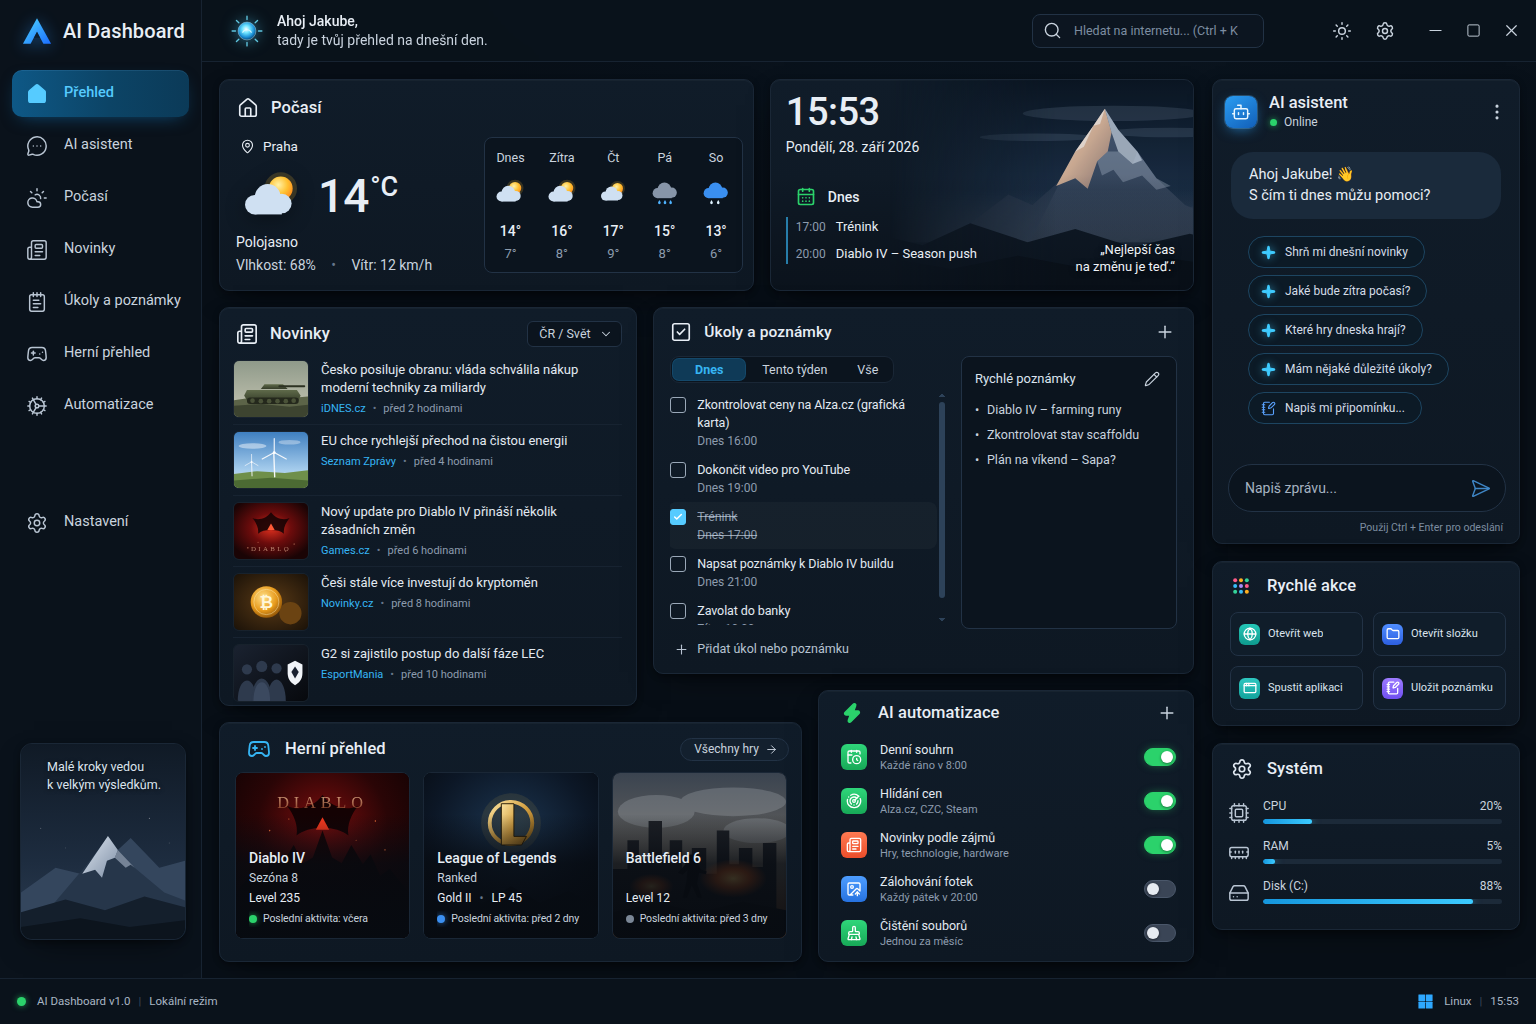
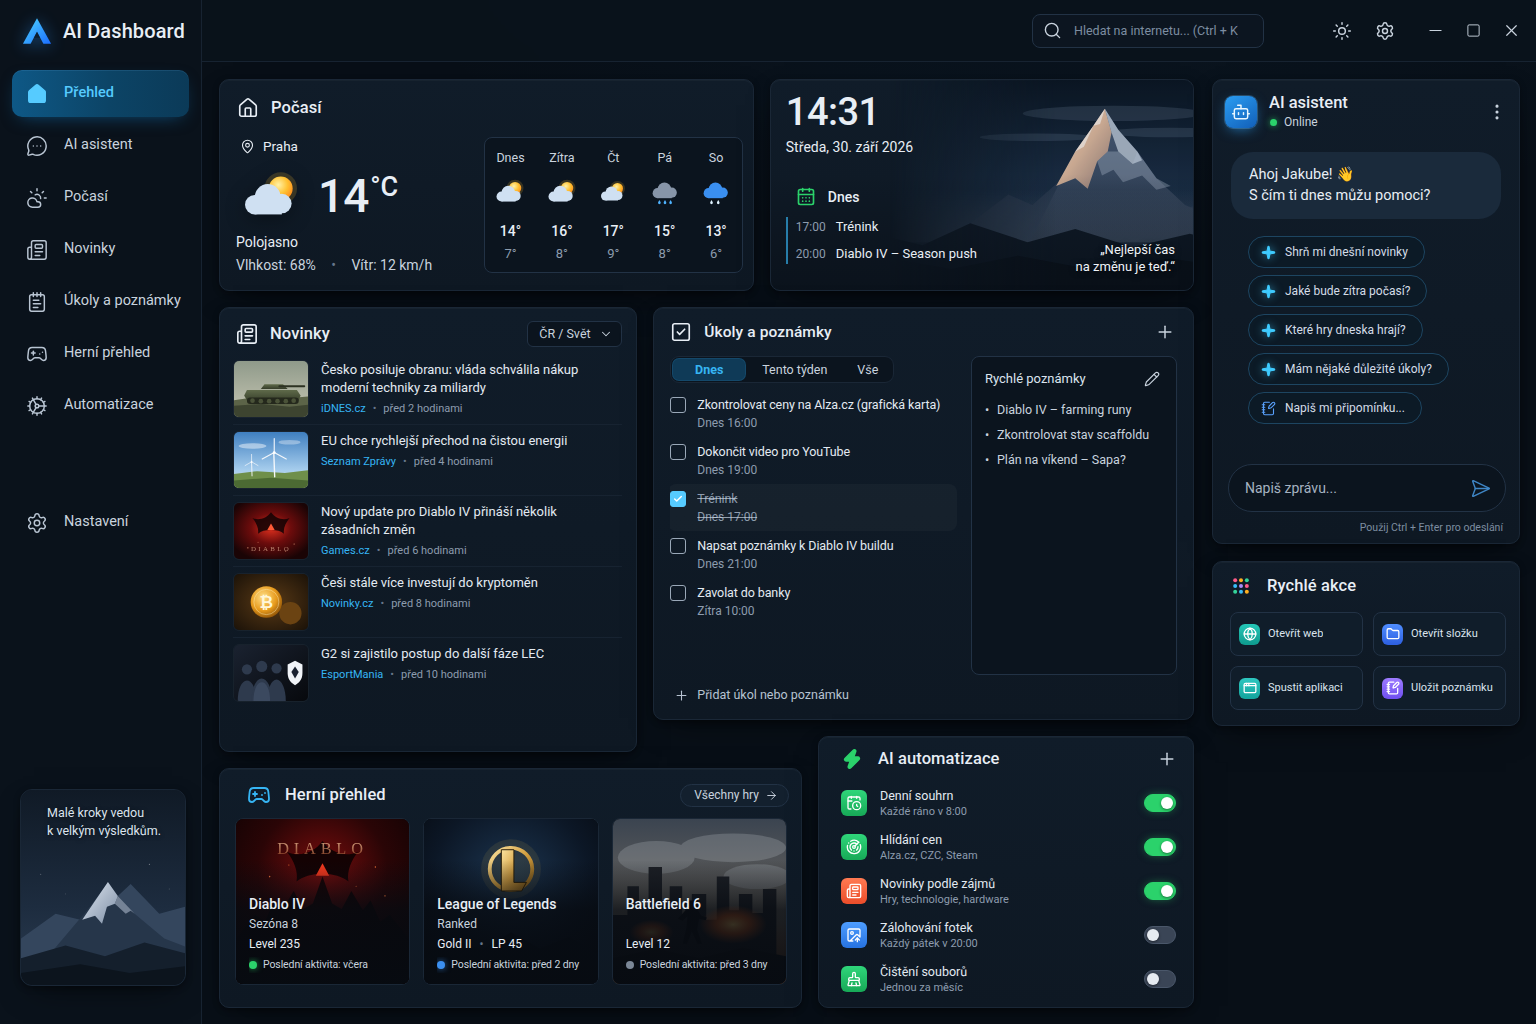
Remove greeting, status bar and system card
- Top bar: drop the "Ahoj Jakube" greeting; search stays right-aligned.
- Remove the bottom status bar (app version, local mode, OS, clock).
- Remove the Systém card and the CPU/RAM/disk IPC it used.
- Narrow the quick-notes panel so the first task title fits on one line.

Claude-Session: https://claude.ai/code/session_01SKftjndGtxnayR8RFE7BFb

diff --git a/styles.css b/styles.css
@@ -55,7 +55,6 @@
   --sidebar-w: 202px;
   --rail-w: 72px;
   --topbar-h: 62px;
-  --statusbar-h: 46px;
   --rightbar-w: 308px;
   --gap: 16px;
 
@@ -134,11 +133,10 @@ i[data-lucide],
 .app {
   display: grid;
   grid-template-columns: var(--sidebar-w) minmax(0, 1fr);
-  grid-template-rows: var(--topbar-h) 1fr var(--statusbar-h);
+  grid-template-rows: var(--topbar-h) 1fr;
   grid-template-areas:
     "side top"
-    "side main"
-    "status status";
+    "side main";
   min-height: 100dvh;
   background:
     radial-gradient(1200px 600px at 70% -10%, rgba(40, 110, 170, 0.08), transparent 60%),
@@ -153,7 +151,7 @@ i[data-lucide],
   z-index: 40;
   display: flex;
   flex-direction: column;
-  height: calc(100dvh - var(--statusbar-h));
+  height: 100dvh;
   padding: 0 12px 38px;
   background: var(--surface);
   border-right: 1px solid var(--line);
@@ -251,23 +249,9 @@ i[data-lucide],
 }
 .topbar .topbar__menu { display: none; }
 
-.greeting { display: flex; align-items: center; gap: 13px; min-width: 0; margin-right: auto; }
-.greeting__orb {
-  width: 34px; height: 34px; flex: none;
-  filter: drop-shadow(0 0 8px rgba(80, 210, 255, 0.55));
-  animation: orb-pulse 4s ease-in-out infinite;
-}
-.greeting__text { display: flex; flex-direction: column; font-size: 14px; line-height: 1.35; min-width: 0; }
-.greeting__text strong { font-weight: 500; }
-.greeting__text span { color: var(--text-2); white-space: nowrap; overflow: hidden; text-overflow: ellipsis; }
-
-@keyframes orb-pulse {
-  0%, 100% { filter: drop-shadow(0 0 6px rgba(80, 210, 255, 0.45)); }
-  50%      { filter: drop-shadow(0 0 12px rgba(80, 210, 255, 0.8)); }
-}
-
 .search {
   position: relative;
+  margin-left: auto;
   display: flex;
   align-items: center;
   width: 232px;
@@ -340,7 +324,7 @@ i[data-lucide],
     "news    .       .     automation"
     "games   games   games automation";
   gap: var(--gap);
-  min-height: min(calc(100dvh - var(--topbar-h) - var(--statusbar-h) - 33px), 960px);
+  min-height: min(calc(100dvh - var(--topbar-h) - 33px), 1000px);
 }
 .weather     { grid-area: weather; }
 .clock       { grid-area: clock; }
@@ -594,7 +578,7 @@ i[data-lucide],
 .tasks__layout {
   flex: 1;
   display: grid;
-  grid-template-columns: minmax(0, 1fr) 216px;
+  grid-template-columns: minmax(0, 1fr) 206px;
   grid-template-rows: auto auto 1fr auto;
   grid-template-areas:
     "head head"
@@ -1144,49 +1128,6 @@ i[data-lucide],
 .action__icon--cyan { background: linear-gradient(180deg, #2ec7c0, #12a39c); }
 .action__icon--violet { background: linear-gradient(180deg, #9d7bff, #6f4ff0); }
 
-/* ---------- Systém ---------- */
-.system { padding: 15px 17px 25px 18px; }
-.system .card__title { gap: 14px; }
-.system .card__title .lucide { width: 22px; height: 22px; color: #dfe7f0; }
-.meters { display: flex; flex-direction: column; gap: 14px; margin-top: 19px; }
-.meter { display: flex; align-items: center; gap: 13px; }
-.meter > .lucide { width: 22px; height: 22px; color: #b9c5d3; stroke-width: 1.6; margin: 3px 0 0 -3px; }
-.meter__body { flex: 1; min-width: 0; }
-.meter__row { display: flex; justify-content: space-between; font-size: 12px; line-height: 16px; color: var(--text-2); }
-.meter__bar { height: 5px; margin-top: 5px; overflow: hidden; background: #1c2a39; border-radius: 3px; }
-.meter__bar span {
-  display: block;
-  width: var(--value, 0%);
-  height: 100%;
-  border-radius: inherit;
-  background: linear-gradient(90deg, #1596dd, #3ccaff);
-  box-shadow: 0 0 8px rgba(60, 202, 255, 0.55);
-  transition: width 0.6s var(--ease);
-}
-
-/* ==========================================================================
-   Stavový řádek
-   ========================================================================== */
-.statusbar {
-  grid-area: status;
-  position: sticky;
-  bottom: 0;
-  z-index: 30;
-  display: flex;
-  align-items: center;
-  justify-content: space-between;
-  gap: 16px;
-  padding: 0 17px 0 17px;
-  background: var(--surface);
-  border-top: 1px solid var(--line);
-  font-size: 11.5px;
-  color: #a9b6c4;
-}
-.statusbar p { display: flex; align-items: center; white-space: nowrap; }
-.statusbar .status-dot { width: 9px; height: 9px; margin-right: 11px; }
-.statusbar__sep { margin: 0 8px; color: #3a4757; }
-.statusbar__os { width: 17px; height: 17px; margin-right: 10px; }
-.statusbar__right { font-variant-numeric: tabular-nums; }
 
 /* ==========================================================================
    Desktop aplikace (Electron): okno se táhne za horní lištu
@@ -1245,12 +1186,11 @@ i[data-lucide],
     display: grid;
     grid-template-columns: repeat(2, minmax(0, 1fr));
     grid-template-rows: auto 1fr;
-    grid-template-areas: "chat quick" "chat system";
+    grid-template-areas: "chat quick" "chat .";
     gap: var(--gap);
   }
   .assistant { grid-area: chat; }
   .quick { grid-area: quick; }
-  .system { grid-area: system; }
   .dashboard { min-height: 0; }
 }
 
@@ -1293,7 +1233,7 @@ i[data-lucide],
   .rightbar {
     grid-template-columns: minmax(0, 1fr);
     grid-template-rows: none;
-    grid-template-areas: "chat" "quick" "system";
+    grid-template-areas: "chat" "quick";
   }
   .clock { min-height: 212px; }
   .clock__bg { width: 85%; }
@@ -1304,12 +1244,9 @@ i[data-lucide],
     height: auto;
     padding: 10px 12px 12px;
   }
-  .app { grid-template-rows: auto 1fr auto; }
-  .greeting__text span { display: none; }
+  .app { grid-template-rows: auto 1fr; }
   .search { order: 3; flex: 1 1 100%; }
   .topbar__actions { gap: 2px; }
-
-  .statusbar { padding: 12px 16px; font-size: 11px; }
 }
 
 @media (max-width: 380px) {

diff --git a/index.html b/index.html
@@ -54,14 +54,6 @@
       <path d="M16 16.8 12.6 23.2h6.8Z" fill="#0a121b" opacity=".55"/>
     </symbol>
 
-    <symbol id="i-orb" viewBox="0 0 40 40">
-      <g stroke="#6fe4ff" stroke-linecap="round" stroke-width="1.6" opacity=".85">
-        <path d="M20 2.5v4M20 33.5v4M2.5 20h4M33.5 20h4M7.6 7.6l2.8 2.8M29.6 29.6l2.8 2.8M7.6 32.4l2.8-2.8M29.6 10.4l2.8-2.8"/>
-      </g>
-      <circle cx="20" cy="20" r="10.5" fill="url(#g-orb)"/>
-      <circle cx="20" cy="20" r="10.5" fill="none" stroke="#bff4ff" stroke-opacity=".5"/>
-      <path d="M15 21.5c2-4 8-4 10 0" fill="none" stroke="#e9fcff" stroke-width="1.4" stroke-linecap="round" opacity=".8"/>
-    </symbol>
 
     <symbol id="wx-partly" viewBox="0 0 64 48">
       <circle cx="41" cy="17" r="15" fill="#ffc233" opacity=".18"/>
@@ -113,12 +105,6 @@
       <circle cx="19" cy="19" r="2.4" fill="#ffb020"/>
     </symbol>
 
-    <symbol id="i-windows" viewBox="0 0 24 24">
-      <rect x="2" y="2" width="9.5" height="9.5" rx=".6" fill="#2ea8ff"/>
-      <rect x="12.5" y="2" width="9.5" height="9.5" rx=".6" fill="#2ea8ff"/>
-      <rect x="2" y="12.5" width="9.5" height="9.5" rx=".6" fill="#2ea8ff"/>
-      <rect x="12.5" y="12.5" width="9.5" height="9.5" rx=".6" fill="#2ea8ff"/>
-    </symbol>
   </svg>
 
   <div class="app" id="app">
@@ -159,13 +145,6 @@
         <i data-lucide="menu"></i>
       </button>
 
-      <div class="greeting">
-        <svg class="greeting__orb" aria-hidden="true"><use href="#i-orb"/></svg>
-        <p class="greeting__text">
-          <strong>Ahoj Jakube,</strong>
-          <span>tady je tvůj přehled na dnešní den.</span>
-        </p>
-      </div>
 
       <form class="search" role="search" action="https://duckduckgo.com/" method="get" target="_blank">
         <i data-lucide="search"></i>
@@ -523,41 +502,9 @@
           </div>
         </section>
 
-        <!-- Systém -->
-        <section class="card system" aria-labelledby="system-title">
-          <h2 class="card__title" id="system-title"><i data-lucide="settings"></i>Systém</h2>
-          <ul class="meters">
-            <li class="meter">
-              <i data-lucide="cpu"></i>
-              <div class="meter__body">
-                <div class="meter__row"><span>CPU</span><span data-meter-value="cpu">12%</span></div>
-                <div class="meter__bar" role="progressbar" data-meter="cpu" aria-label="Využití CPU" aria-valuenow="12" aria-valuemin="0" aria-valuemax="100"><span style="--value: 12%"></span></div>
-              </div>
-            </li>
-            <li class="meter">
-              <i data-lucide="memory-stick"></i>
-              <div class="meter__body">
-                <div class="meter__row"><span>RAM</span><span data-meter-value="ram">34%</span></div>
-                <div class="meter__bar" role="progressbar" data-meter="ram" aria-label="Využití RAM" aria-valuenow="34" aria-valuemin="0" aria-valuemax="100"><span style="--value: 34%"></span></div>
-              </div>
-            </li>
-            <li class="meter">
-              <i data-lucide="hard-drive"></i>
-              <div class="meter__body">
-                <div class="meter__row"><span>Disk (C:)</span><span data-meter-value="disk">68%</span></div>
-                <div class="meter__bar" role="progressbar" data-meter="disk" aria-label="Zaplnění disku C:" aria-valuenow="68" aria-valuemin="0" aria-valuemax="100"><span style="--value: 68%"></span></div>
-              </div>
-            </li>
-          </ul>
-        </section>
       </aside>
     </main>
 
-    <!-- ============ STAVOVÝ ŘÁDEK ============ -->
-    <footer class="statusbar">
-      <p class="statusbar__left"><span class="status-dot status-dot--green"></span>AI Dashboard v<span id="app-version">1.0</span><span class="statusbar__sep">|</span>Lokální režim</p>
-      <p class="statusbar__right"><svg class="statusbar__os" aria-hidden="true"><use href="#i-windows"/></svg><span id="os-name">Windows 11</span><span class="statusbar__sep">|</span><time id="status-time">15:42</time></p>
-    </footer>
   </div>
 
 </body>

diff --git a/main.js b/main.js
@@ -3,8 +3,6 @@
 
 const { app, BrowserWindow, ipcMain, shell, dialog, screen } = require("electron");
 const path = require("node:path");
-const os = require("node:os");
-const fs = require("node:fs");
 
 const DESIGN_SIZE = { width: 1536, height: 1024 };
 const isHttpUrl = (url) => /^https?:\/\//i.test(url);
@@ -68,52 +66,6 @@ ipcMain.on("win:toggle-maximize", (e) => {
   win.isMaximized() ? win.unmaximize() : win.maximize();
 });
 ipcMain.on("win:close", (e) => senderWindow(e)?.close());
-
-/* ---------- Systémové informace ---------- */
-let lastCpu = os.cpus().map((c) => c.times);
-
-function cpuUsage() {
-  const now = os.cpus().map((c) => c.times);
-  let idle = 0;
-  let total = 0;
-  now.forEach((t, i) => {
-    const prev = lastCpu[i] || t;
-    const busy = (t.user - prev.user) + (t.nice - prev.nice) + (t.sys - prev.sys) + (t.irq - prev.irq);
-    const free = t.idle - prev.idle;
-    idle += free;
-    total += busy + free;
-  });
-  lastCpu = now;
-  return total > 0 ? Math.round((1 - idle / total) * 100) : 0;
-}
-
-function diskUsage() {
-  const root = process.platform === "win32" ? "C:\\" : "/";
-  try {
-    const s = fs.statfsSync(root);
-    return Math.round((1 - s.bavail / s.blocks) * 100);
-  } catch {
-    return null;
-  }
-}
-
-function osName() {
-  if (process.platform !== "win32") return os.type();
-  // Windows 11 má stále verzi jádra 10.0, liší se číslem buildu (22000+).
-  const build = Number(os.release().split(".")[2] || 0);
-  return build >= 22000 ? "Windows 11" : "Windows 10";
-}
-
-ipcMain.handle("sys:stats", () => ({
-  cpu: cpuUsage(),
-  ram: Math.round((1 - os.freemem() / os.totalmem()) * 100),
-  disk: diskUsage(),
-}));
-
-ipcMain.handle("sys:info", () => ({
-  os: osName(),
-  version: app.getVersion(),
-}));
 
 /* ---------- Rychlé akce ---------- */
 ipcMain.handle("action:open-web", () => shell.openExternal("https://www.google.com/"));

diff --git a/script.js b/script.js
@@ -18,7 +18,7 @@
   };
 
   /* ---------- Hodiny a datum (česky) ---------- */
-  const timeEls = [$("#clock-time"), $("#status-time")].filter(Boolean);
+  const timeEls = [$("#clock-time")].filter(Boolean);
   const dateEl = $("#clock-date");
   const timeFmt = new Intl.DateTimeFormat("cs-CZ", { hour: "2-digit", minute: "2-digit" });
   const weekdayFmt = new Intl.DateTimeFormat("cs-CZ", { weekday: "long" });
@@ -271,23 +271,6 @@
       renderIcons();
     });
 
-    desktop.systemInfo().then(({ os, version }) => {
-      $("#os-name").textContent = os;
-      $("#app-version").textContent = version.replace(/\.0$/, "");
-    });
-
-    const updateMeters = async () => {
-      const stats = await desktop.systemStats();
-      Object.entries(stats).forEach(([key, value]) => {
-        if (value == null) return;
-        const bar = $(`[data-meter="${key}"]`);
-        $(`[data-meter-value="${key}"]`).textContent = `${value}%`;
-        bar.setAttribute("aria-valuenow", value);
-        $("span", bar).style.setProperty("--value", `${value}%`);
-      });
-    };
-    updateMeters();
-    setInterval(updateMeters, 2000);
   }
 
   const actions = {

diff --git a/preload.js b/preload.js
@@ -10,8 +10,6 @@ contextBridge.exposeInMainWorld("desktop", {
   onMaximizedChange: (callback) => {
     ipcRenderer.on("win:maximized", (_event, maximized) => callback(Boolean(maximized)));
   },
-  systemStats: () => ipcRenderer.invoke("sys:stats"),
-  systemInfo: () => ipcRenderer.invoke("sys:info"),
   openWeb: () => ipcRenderer.invoke("action:open-web"),
   openFolder: () => ipcRenderer.invoke("action:open-folder"),
   launchApp: () => ipcRenderer.invoke("action:launch-app"),

diff --git a/README.md b/README.md
@@ -23,8 +23,6 @@ varování → **Další informace** → **Přesto spustit**.
 ## Co funguje „naostro“
 
 - **Ovládání okna** z vlastní titulní lišty (minimalizace, maximalizace/obnovení, zavření).
-- **Systém:** skutečné vytížení CPU, paměti RAM a zaplnění disku C: (obnovuje se každé 2 s),
-  ve stavovém řádku verze Windows (10/11).
 - **Rychlé akce:** Otevřít web (výchozí prohlížeč), Otevřít složku (Dokumenty),
   Spustit aplikaci (výběr .exe/.lnk), Uložit poznámku.
 - **Ukládání:** úkoly, rychlé poznámky a stav přepínačů automatizací zůstávají i po restartu.
@@ -42,7 +40,7 @@ npm run dist:zip     # jen zip – jde sestavit i na Linuxu/macOS
 
 | Soubor | Obsah |
 | --- | --- |
-| `main.js` | Hlavní proces Electronu: okno bez rámečku, systémové údaje, rychlé akce |
+| `main.js` | Hlavní proces Electronu: okno bez rámečku, rychlé akce |
 | `preload.js` | Bezpečný most mezi stránkou a hlavním procesem (`window.desktop`) |
 | `index.html` | Markup dashboardu |
 | `styles.css` | Design tokeny (`:root`), layout, komponenty, stavy hover/active/focus |
@@ -53,7 +51,7 @@ npm run dist:zip     # jen zip – jde sestavit i na Linuxu/macOS
 
 ## Layout
 
-- **Shell:** CSS Grid `sidebar | obsah`, horní lišta a stavový řádek jsou `sticky`.
+- **Shell:** CSS Grid `sidebar | obsah`, horní lišta je `sticky`.
 - **Střed:** mřížka o 4 stopách (`416fr 100fr 32fr 374fr`) s pojmenovanými oblastmi, která věrně
   skládá „posunuté“ řádky z návrhu (Novinky přesahují pod Úkoly, Automatizace začíná nad Herním přehledem).
 - **Container queries** přizpůsobují vnitřek karet jejich šířce (předpověď počasí pod teplotu,
@@ -77,6 +75,6 @@ stavy `:hover`, `:active` a `:focus-visible`; animace respektují `prefers-reduc
 ## Poznámky
 
 - Obrázky v `assets/img/` jsou jen zástupné ilustrace – nahraďte je skutečnými (stejné poměry stran).
-- Hodiny ve widgetu i ve stavovém řádku ukazují aktuální čas a datum (česky).
+- Hodiny ve widgetu ukazují aktuální čas a datum (česky).
 - Dva překlepy z návrhu jsou opravené: „Herni přehled“ → „Herní přehled“,
   „Které hry dneska hrajú?“ → „Které hry dneska hrají?“.
